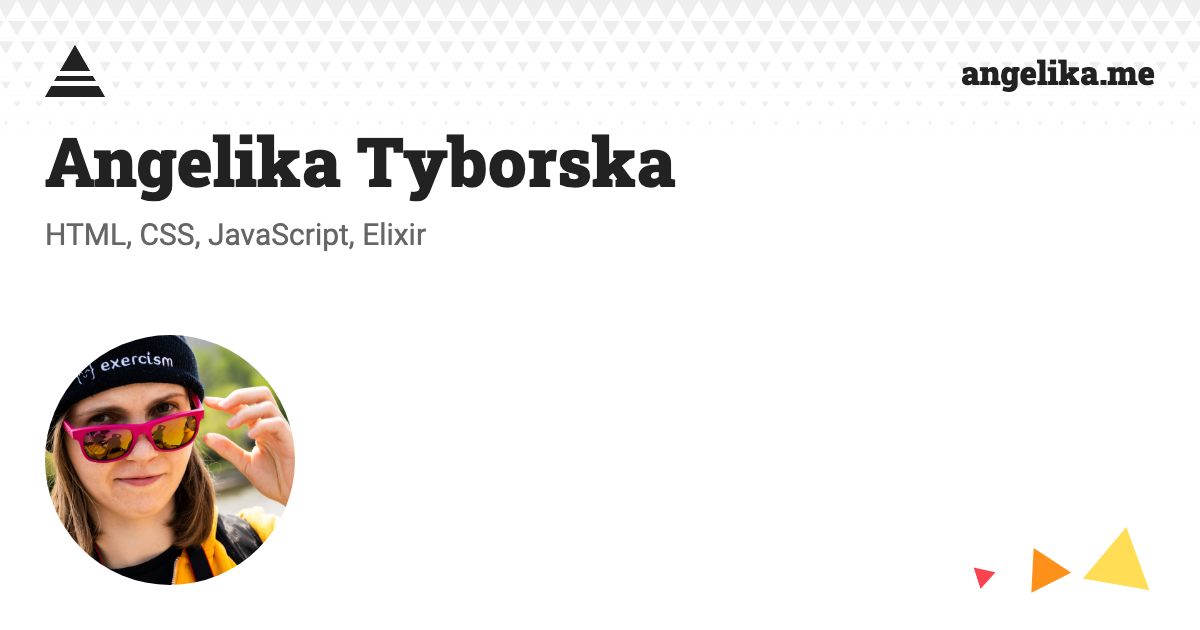
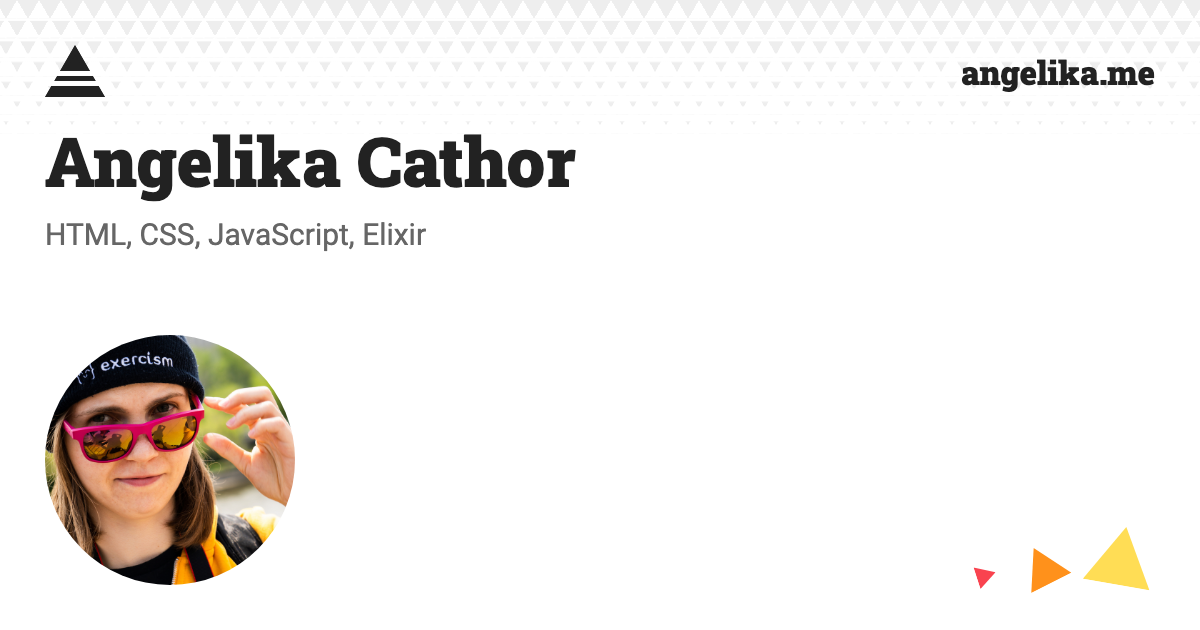
Change my last name

Changed region(s): [[0.2775, 0.2111, 0.5858, 0.3317]]

diff --git a/index.html b/index.html
@@ -8,7 +8,7 @@ path: about
   <div>
     <h1>Hi!&nbsp;👋</h1>
 
-    <p>My name is <span lang="pl">Angelika Tyborska</span> and I'm a full-stack web developer. I'm currently located in Berlin, Germany&nbsp;🇩🇪, but I was born and grew up in <span lang="pl">Gorzów Wielkopolski</span>, Poland&nbsp;🇵🇱.</p>
+    <p>My name is <span lang="pl">Angelika Cathor</span> and I'm a full-stack web developer. I'm currently located in Berlin, Germany&nbsp;🇩🇪, but I was born and grew up in <span lang="pl">Gorzów Wielkopolski</span>, Poland&nbsp;🇵🇱.</p>
 
     <p>I write backend code in Elixir&nbsp;💜. It's my favorite programming language because of its human-friendly syntax, immutability, pattern matching, and performance.</p>
 

diff --git a/_includes/head.html b/_includes/head.html
@@ -38,7 +38,7 @@
   {% assign description = site.description %}
   {% endif %}
 
-  <meta name="author" content="Angelika Tyborska" />
+  <meta name="author" content="Angelika Cathor" />
   <meta name="description" content="{{ description | strip_html }}" />
   <meta name="viewport" content="width=device-width, initial-scale=1" />
   <meta name="view-transition" content="same-origin">

diff --git a/_includes/footer.html b/_includes/footer.html
@@ -25,7 +25,7 @@
 
     <div class="legal">
       <h2>Legal</h2>
-      <p>&copy; 2016-{{ site.time | date: '%Y' }} <span lang="pl">Angelika&nbsp;Tyborska</span></p>
+      <p>&copy; 2016-{{ site.time | date: '%Y' }} <span lang="pl">Angelika&nbsp;Cathor</span></p>
       <p>Contact: <strong>hello at angelika.me</strong></p>
     </div>
   </div>

diff --git a/_layouts/default_og_image.html b/_layouts/default_og_image.html
@@ -11,7 +11,7 @@
     <span class="page-title">angelika.me</span>
   </div>
   <header>
-    <h1>Angelika Tyborska</h1>
+    <h1>Angelika Cathor</h1>
     <div class="post-meta">
       <span class="tags">
         <span>HTML</span>,
